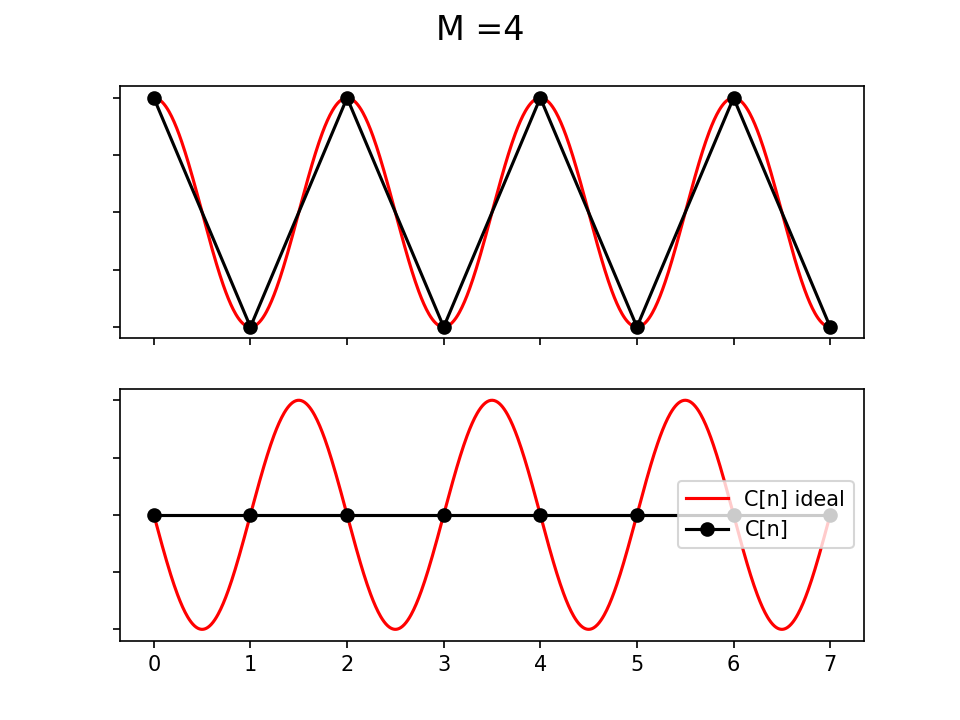
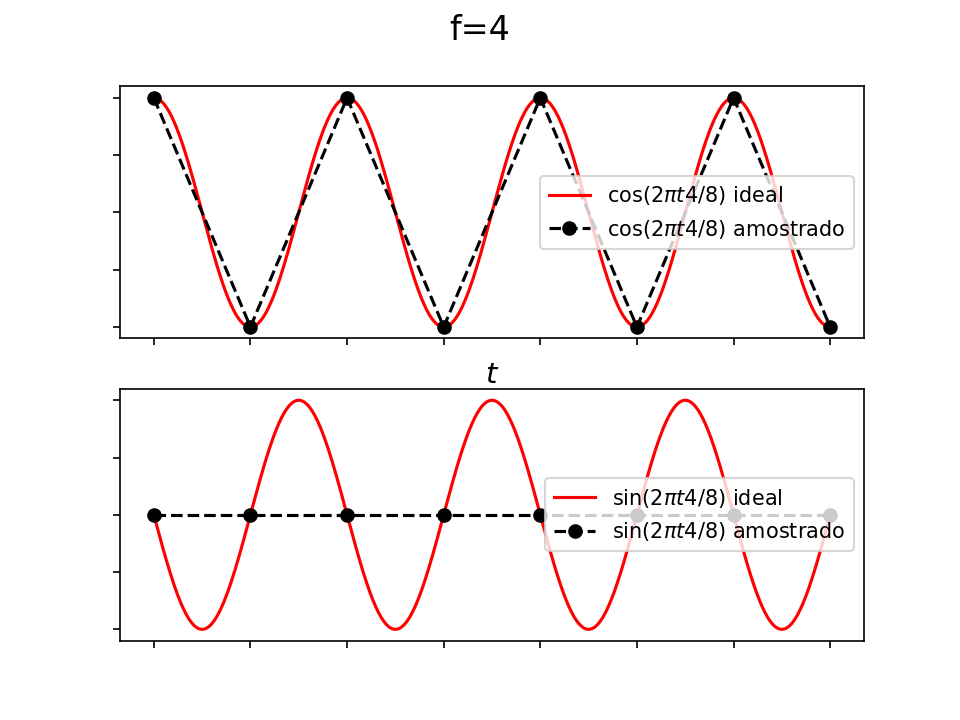
cleaned code in fourier, separate plotting logic from calcaulations and other improvements

diff --git a/resources/Demonstração Transformada de Fourier/fourier.py b/resources/Demonstração Transformada de Fourier/fourier.py
@@ -1,65 +1,68 @@
 import numpy as np
 import matplotlib.pyplot as plt
-from scipy.fftpack import fft
+# from scipy.fftpack import fft
 
 # Discrete Fourier Transform | Transformada Discreta de Fourier
-def DFT(x): 
-  N = x.shape[0]
-  # cria um vetor de N entradas complexas, preenchido com zeros
-  X = np.zeros(N, dtype='complex64')
-  n = np.array([p for p in range(N)]) # n = {0,1,2,...,N-1}
-  # Versão de "alta resolução" de n, usada para o gráfico apenas
-  Hn = np.linspace(0, N-1, 100*N) # Hn ={0,...,1,...,2,...,N-1}
-  for m in range(N): # m E {0,1,2,...,N-1}
-    C_Si = np.exp(-2 * np.pi * m * n / N * 1j) # C(m) - S(m) i
-    # Versão de "alta resolução" de C_Si, usada para o gráfico apenas
-    HC_Si = np.exp(-2 * np.pi * m * Hn / N * 1j)
-    X[m] = sum(np.multiply(x, C_Si)) # multiplicação termo a termo
-    # plotando:
-    plt.figure(1)
-    plt.suptitle('M =' + str(m), fontsize=16)
+def DFT(x, plot = False):
+  n = x.shape[0]  
+  FT = np.zeros(n, dtype='complex64') # cria um vetor de N entradas complexas, preenchido com zeros
+  N = np.array([p for p in range(n)]) # n = {0,1,2,...,N-1}
+  
+  if plot:# Versão de "alta resolução" de N, usada para o gráfico apenas
+    HN = np.linspace(0, n-1, 100*n) # Hn ={0,...,1,...,2,...,N-1}
+  for f in range(n): # m E {0,1,2,...,N-1}
 
-    plt.subplot(211)
-    # plt.plot(n,x[n].real, 'k:.', label='x[n]')
-    plt.plot(Hn,HC_Si.real, 'r-',label='C[n] ideal')
-    plt.plot(n,C_Si.real, 'k-o', label='C[n]')
-    # plt.ylabel('Real', fontsize=14, color='k')
-    cur_axes = plt.gca()
-    cur_axes.axes.get_xaxis().set_ticklabels([])
-    cur_axes.axes.get_yaxis().set_ticklabels([])
+    C_Si = np.exp(-2 * np.pi * f * N / n * 1j) # Cos(f) - Sin(f) i
+    FT[f] = sum(np.multiply(x, C_Si)) # multiplicação termo a termo
+    
+    if plot: # plotando:
+      HC_Si = np.exp(-2 * np.pi * f * HN / n * 1j) # Versão de "alta resolução" de C_Si, usada para o gráfico apenas
+      plt.figure(1)
+      plt.suptitle(f'f={f}', fontsize=16)
 
-    plt.subplot(212)
-    # plt.plot(n,x[n].imag, 'k:.', label='x[n]')
-    plt.plot(Hn,HC_Si.imag, 'r-',label='C[n] ideal')
-    plt.plot(n,C_Si.imag, 'k-o', label='C[n]')
-    # plt.ylabel('Imaginário', fontsize=14, color='k')
-    # plt.axis('off')
-    cur_axes = plt.gca()
-    # cur_axes.axes.get_xaxis().set_ticklabels([])
-    cur_axes.axes.get_yaxis().set_ticklabels([])
-    plt.legend()
-    plt.savefig('0' + str(m) + '.png', dpi=150, transparent="True", pad_inches=0)
-    plt.close('all')
-  #calcula o erro em relação ao algoritmo da biblioteca Scipy
-  error = sum((X-fft(x))**2)
+      plt.subplot(211)
+      # plt.plot(n,x[n].real, 'k:.', label='x[n]')
+      plt.plot(HN,HC_Si.real, 'r-',label=f'$\cos (2 \pi t {f} / {n})$ ideal')
+      plt.plot(N,C_Si.real, 'k--o', label=f'$\cos (2 \pi t {f} / {n})$ amostrado')
+      plt.xlabel('$t$', fontsize=14, color='k')
+      cur_axes = plt.gca()
+      cur_axes.axes.get_xaxis().set_ticklabels([])
+      cur_axes.axes.get_yaxis().set_ticklabels([])
+      plt.legend()
+
+      plt.subplot(212)
+      # plt.plot(n,x[n].imag, 'k:.', label='x[n]')
+      plt.plot(HN,HC_Si.imag, 'r-',label=f'$\sin (2 \pi t {f} / {n})$ ideal')
+      plt.plot(N,C_Si.imag, 'k--o', label=f'$\sin (2 \pi t {f} / {n})$ amostrado')
+      # plt.ylabel('Imaginário', fontsize=14, color='k')
+      # plt.axis('off')
+      cur_axes = plt.gca()
+      cur_axes.axes.get_xaxis().set_ticklabels([])
+      cur_axes.axes.get_yaxis().set_ticklabels([])
+      plt.legend()
+
+      plt.savefig('0' + str(f) + '.png', dpi=150, transparent="True", pad_inches=0)
+      plt.close('all')
+
+  FT = FT[0 : int(n/2+1)] if (n % 2 == 0) else FT[0 : int((n+1)/2)] # retorna a parte não redundante da transformada
+  error = np.sum(np.abs(FT - np.fft.rfft(x))) #calcula o erro em relação ao algoritmo da biblioteca numpy
   print(round(error,5))
-  # retorna a parte não redundante da transformada
-  return X[0 : int(N/2+1)] if (N % 2 == 0) else X[0 : int((N+1)/2)]
 
-def s(t):
-  return np.cos(2 * np.pi * t)
+  if plot:
+    plt.figure(1)
+    plt.subplot(211)
+    plt.ylabel('Real', fontsize=14, color='k')
+    plt.stem(FT.real,linefmt='k--',markerfmt='ko', basefmt='k--')
+    plt.subplot(212)
+    plt.stem(FT.imag,linefmt='k--',markerfmt='ks', basefmt='k--')
+    plt.ylabel('Imaginário', fontsize=14, color='k')
+    plt.savefig('transform.png', dpi=150)
+    plt.close('all')
+
+  return FT
+
+##########
 
 t = np.linspace(0, 1, 8) # 8 pontos entre 0 e 1
-x = s(t) # aplica a função ponto a ponto
-X = DFT(x)
-
-# plotando:
-plt.figure(1)
-plt.subplot(211)
-plt.ylabel('Real', fontsize=14, color='k')
-plt.stem(X.real,linefmt='k--',markerfmt='ko', basefmt='k--')
-plt.subplot(212)
-plt.stem(X.imag,linefmt='k--',markerfmt='ks', basefmt='k--')
-plt.ylabel('Imaginário', fontsize=14, color='k')
-plt.savefig('transform.png', dpi=150)
-plt.close('all')
+x = np.cos(2 * np.pi * t) # aplica a função ponto a ponto
+X = DFT(x, True)

diff --git a/resources/Demonstração Transformada de Fourier/.vscode/.ropeproject/config.py b/resources/Demonstração Transformada de Fourier/.vscode/.ropeproject/config.py
@@ -1,0 +1,112 @@
+# The default ``config.py``
+# flake8: noqa
+
+
+def set_prefs(prefs):
+    """This function is called before opening the project"""
+
+    # Specify which files and folders to ignore in the project.
+    # Changes to ignored resources are not added to the history and
+    # VCSs.  Also they are not returned in `Project.get_files()`.
+    # Note that ``?`` and ``*`` match all characters but slashes.
+    # '*.pyc': matches 'test.pyc' and 'pkg/test.pyc'
+    # 'mod*.pyc': matches 'test/mod1.pyc' but not 'mod/1.pyc'
+    # '.svn': matches 'pkg/.svn' and all of its children
+    # 'build/*.o': matches 'build/lib.o' but not 'build/sub/lib.o'
+    # 'build//*.o': matches 'build/lib.o' and 'build/sub/lib.o'
+    prefs['ignored_resources'] = ['*.pyc', '*~', '.ropeproject',
+                                  '.hg', '.svn', '_svn', '.git', '.tox']
+
+    # Specifies which files should be considered python files.  It is
+    # useful when you have scripts inside your project.  Only files
+    # ending with ``.py`` are considered to be python files by
+    # default.
+    #prefs['python_files'] = ['*.py']
+
+    # Custom source folders:  By default rope searches the project
+    # for finding source folders (folders that should be searched
+    # for finding modules).  You can add paths to that list.  Note
+    # that rope guesses project source folders correctly most of the
+    # time; use this if you have any problems.
+    # The folders should be relative to project root and use '/' for
+    # separating folders regardless of the platform rope is running on.
+    # 'src/my_source_folder' for instance.
+    #prefs.add('source_folders', 'src')
+
+    # You can extend python path for looking up modules
+    #prefs.add('python_path', '~/python/')
+
+    # Should rope save object information or not.
+    prefs['save_objectdb'] = True
+    prefs['compress_objectdb'] = False
+
+    # If `True`, rope analyzes each module when it is being saved.
+    prefs['automatic_soa'] = True
+    # The depth of calls to follow in static object analysis
+    prefs['soa_followed_calls'] = 0
+
+    # If `False` when running modules or unit tests "dynamic object
+    # analysis" is turned off.  This makes them much faster.
+    prefs['perform_doa'] = True
+
+    # Rope can check the validity of its object DB when running.
+    prefs['validate_objectdb'] = True
+
+    # How many undos to hold?
+    prefs['max_history_items'] = 32
+
+    # Shows whether to save history across sessions.
+    prefs['save_history'] = True
+    prefs['compress_history'] = False
+
+    # Set the number spaces used for indenting.  According to
+    # :PEP:`8`, it is best to use 4 spaces.  Since most of rope's
+    # unit-tests use 4 spaces it is more reliable, too.
+    prefs['indent_size'] = 4
+
+    # Builtin and c-extension modules that are allowed to be imported
+    # and inspected by rope.
+    prefs['extension_modules'] = []
+
+    # Add all standard c-extensions to extension_modules list.
+    prefs['import_dynload_stdmods'] = True
+
+    # If `True` modules with syntax errors are considered to be empty.
+    # The default value is `False`; When `False` syntax errors raise
+    # `rope.base.exceptions.ModuleSyntaxError` exception.
+    prefs['ignore_syntax_errors'] = False
+
+    # If `True`, rope ignores unresolvable imports.  Otherwise, they
+    # appear in the importing namespace.
+    prefs['ignore_bad_imports'] = False
+
+    # If `True`, rope will insert new module imports as
+    # `from <package> import <module>` by default.
+    prefs['prefer_module_from_imports'] = False
+
+    # If `True`, rope will transform a comma list of imports into
+    # multiple separate import statements when organizing
+    # imports.
+    prefs['split_imports'] = False
+
+    # If `True`, rope will remove all top-level import statements and
+    # reinsert them at the top of the module when making changes.
+    prefs['pull_imports_to_top'] = True
+
+    # If `True`, rope will sort imports alphabetically by module name instead of
+    # alphabetically by import statement, with from imports after normal
+    # imports.
+    prefs['sort_imports_alphabetically'] = False
+
+    # Location of implementation of rope.base.oi.type_hinting.interfaces.ITypeHintingFactory
+    # In general case, you don't have to change this value, unless you're an rope expert.
+    # Change this value to inject you own implementations of interfaces
+    # listed in module rope.base.oi.type_hinting.providers.interfaces
+    # For example, you can add you own providers for Django Models, or disable the search
+    # type-hinting in a class hierarchy, etc.
+    prefs['type_hinting_factory'] = 'rope.base.oi.type_hinting.factory.default_type_hinting_factory'
+
+
+def project_opened(project):
+    """This function is called after opening the project"""
+    # Do whatever you like here!
